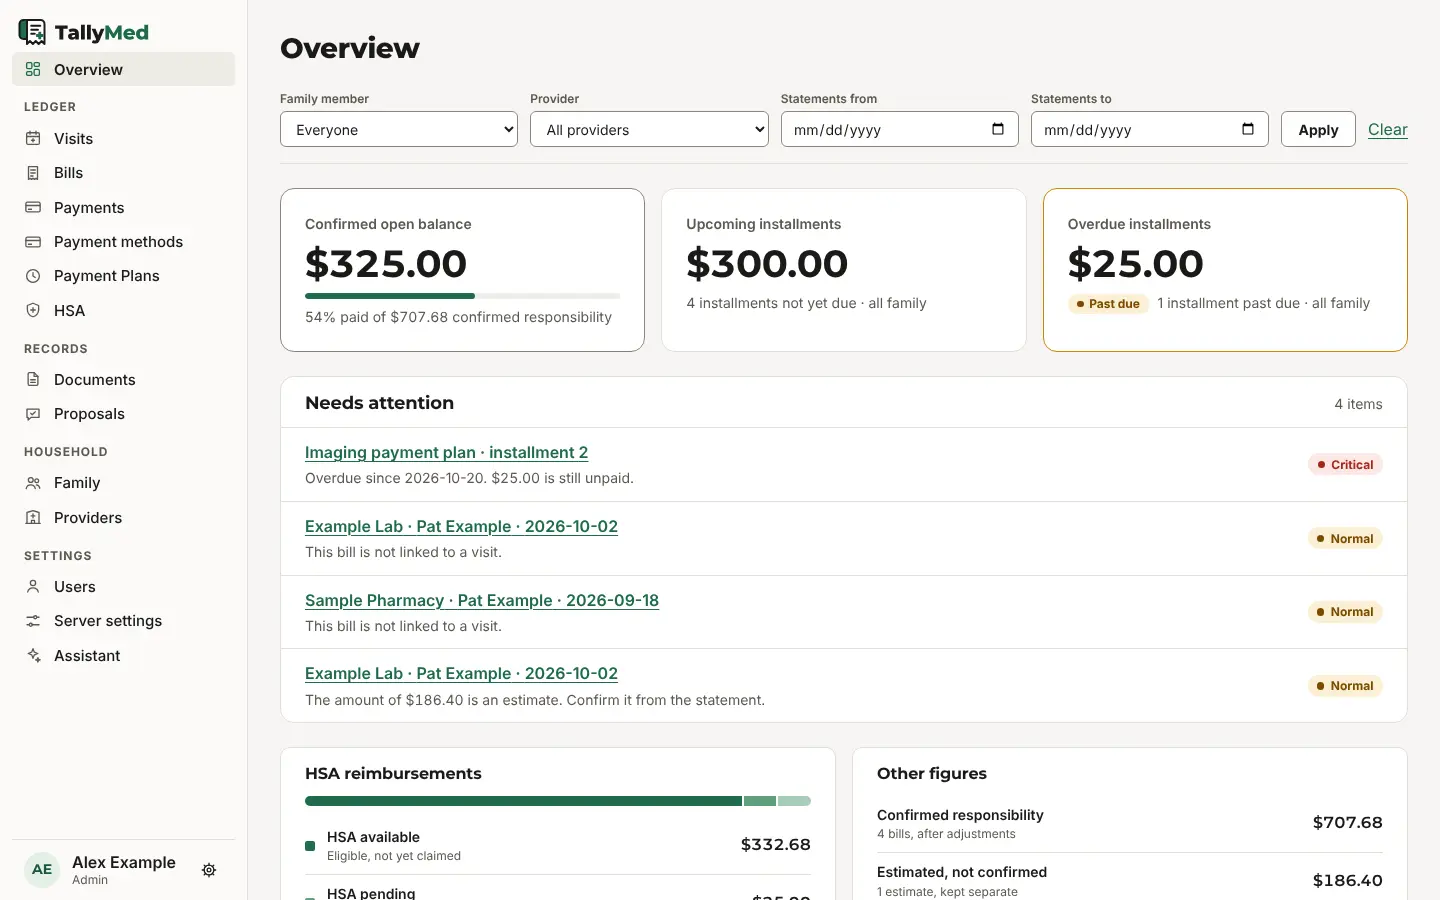
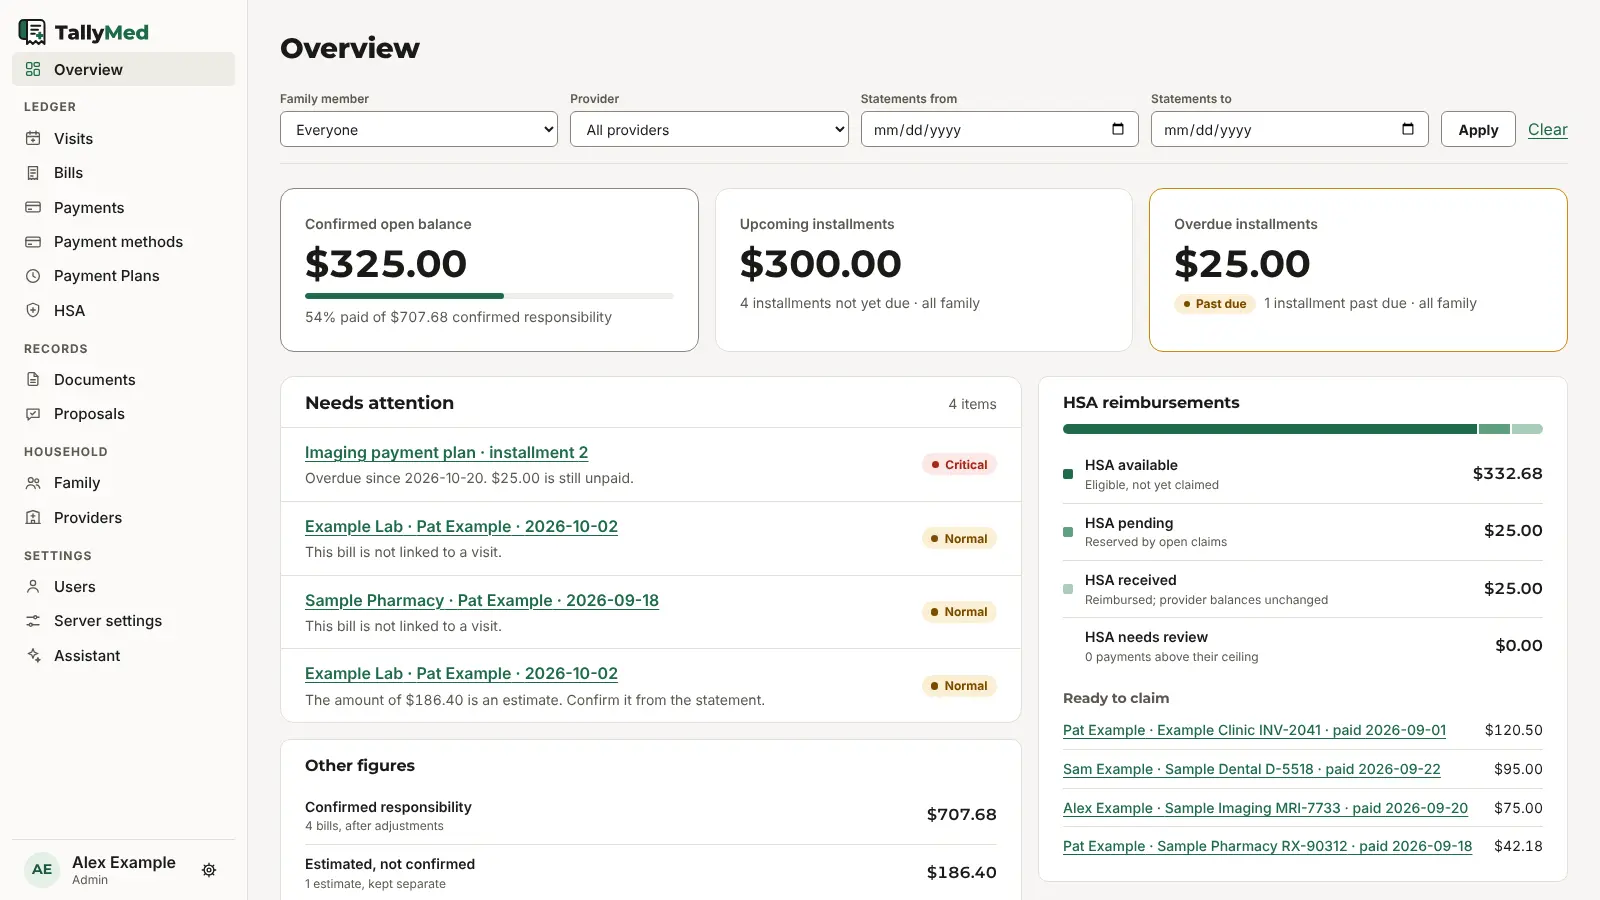
Design for 16:9 screens: wider pages, two-column overview, 16:9 screenshots and checks
From 1600px wide (1920x1080 and up) wide app pages widen to 96rem and the overview
places Needs attention and Other figures in a main column with the HSA card beside
them, so the summary fits on one screen. The marketing frame widens to 88rem.
Product screenshots are re-taken at 1600x900. The marketing browser check adds
1366x768 and 1920x1080; the app check asserts no sideways scroll at both and the
two-column layout at 1920x1080.

Claude-Session: https://claude.ai/code/session_01FMr4CgbvstSKq3XfQZ7Zma

diff --git a/apps/web/app/(app)/page.tsx b/apps/web/app/(app)/page.tsx
@@ -76,6 +76,7 @@ export default async function Overview({ searchParams }: { searchParams: SearchP
           <span className="key-note">{overdueNow && <span className="pill warn">Past due</span>} {plural(due.overdueCount, 'installment', 'installments')} past due · all family</span>
         </Link>
       </section>
+      <div className="overview-body">
       <NeedsAttention sources={{
         overdue: overdue.items, needsReview: hsaQueue.needsReview, unmatched,
         awaitingVisit: data!.awaitingVisit, estimates: data!.estimates, duplicates: data!.possibleDuplicates,
@@ -85,7 +86,7 @@ export default async function Overview({ searchParams }: { searchParams: SearchP
         estimates: filter({ status: 'estimate' }), duplicates: filter({ duplicates: 'yes' }),
       }} />
       <div className="secondary-grid">
-        <section className="card compact" aria-labelledby="sec-hsa">
+        <section className="card compact hsa-card" aria-labelledby="sec-hsa">
           <h2 id="sec-hsa">HSA reimbursements</h2>
           {hsaTotal > 0n
             ? <div className="stack-bar" aria-hidden="true">{hsaParts.map((part) => BigInt(part.cents) > 0n && <span key={part.key} className={`seg seg-${part.key}`} style={{ flexGrow: Number(BigInt(part.cents) * 1000n / hsaTotal) || 1 }} />)}</div>
@@ -99,7 +100,7 @@ export default async function Overview({ searchParams }: { searchParams: SearchP
             <ul className="rows small">{hsaQueue.available.map((a) => <li key={a.allocationId}><AllocationLink a={a} /> <Money cents={a.availableCents} /></li>)}</ul>
           </>}
         </section>
-        <section className="card compact" aria-labelledby="sec-more">
+        <section className="card compact more-card" aria-labelledby="sec-more">
           <h2 id="sec-more">Other figures</h2>
           <ul className="figure-list">
             <li><Link href={filter({ status: 'confirmed' })}><span className="fig-label">Confirmed responsibility</span><span className="fig-value"><Money cents={t.confirmedResponsibilityCents} /></span><span className="fig-note">{plural(t.confirmedCount, 'bill', 'bills')}, after adjustments</span></Link></li>
@@ -109,6 +110,7 @@ export default async function Overview({ searchParams }: { searchParams: SearchP
             <li><Link href={filter({ awaitingVisit: 'yes' })}><span className="fig-label">Bills awaiting a visit</span><span className="fig-value num">{t.awaitingVisitCount}</span><span className="fig-note">Not linked to a visit yet</span></Link></li>
           </ul>
         </section>
+      </div>
       </div>
     </>}
     <p className="muted footnote">Amounts are in USD. Installments and unapplied cash cover the whole family. HSA figures use payment dates, so the statement-date filters do not apply to them.</p>

diff --git a/apps/web/app/globals.css b/apps/web/app/globals.css
@@ -303,6 +303,16 @@ ul.rows li > a:first-child { flex: 1 1 12rem; font-weight: 500; }
 }
 
 .secondary-grid { display: grid; gap: var(--space-4); grid-template-columns: repeat(auto-fit, minmax(min(100%, 22rem), 1fr)); align-items: start; }
+/* Wide 16:9 screens (1600px and up, e.g. 1920x1080): wider pages, and the overview puts Needs attention and Other figures in a main
+   column with the HSA card beside them, so the summary fits on one screen. Without an attention list the secondary cards keep their two-column row. */
+@media (min-width: 100rem) {
+  main.wide, footer.notice, .undo-bar { max-width: 96rem; }
+  .overview-body:has(> .attention) { display: grid; grid-template-columns: minmax(0, 1.4fr) minmax(26rem, 1fr); grid-template-rows: auto 1fr; gap: var(--space-4); align-items: start; }
+  .overview-body:has(> .attention) > .attention { grid-column: 1; grid-row: 1; margin: 0; }
+  .overview-body:has(> .attention) > .secondary-grid { display: contents; }
+  .overview-body:has(> .attention) .more-card { grid-column: 1; grid-row: 2; }
+  .overview-body:has(> .attention) .hsa-card { grid-column: 2; grid-row: 1 / span 2; }
+}
 .card.compact { padding: var(--space-4) var(--space-5); margin: 0; }
 .card.compact h2 { font-size: var(--text-md); margin-bottom: var(--space-3); }
 .card.compact h3 { font-size: var(--text-sm); color: var(--fg-muted); margin: var(--space-4) 0 var(--space-1); }

diff --git a/apps/marketing/app/site.css b/apps/marketing/app/site.css
@@ -38,6 +38,8 @@ a:focus-visible, button:focus-visible, summary:focus-visible, [tabindex]:focus-v
 h1, h2, h3, h4 { font-family: var(--font-display); text-wrap: balance; }
 .sr-only { position: absolute; width: 1px; height: 1px; overflow: hidden; clip-path: inset(50%); white-space: nowrap; }
 .frame { width: min(100% - 2.5rem, 76rem); margin-inline: auto; }
+/* Wide 16:9 screens (1600px and up): a wider frame so the page does not sit in a narrow column on 1920x1080 or 2560x1440. */
+@media (min-width: 100rem) { .frame { width: min(100% - 5rem, 88rem); } }
 .skip { position: absolute; top: 1rem; left: 1rem; z-index: 10; padding: .5rem .75rem; border-radius: .375rem; background: var(--surface); color: var(--ink); transform: translateY(-300%); }
 .skip:focus { transform: none; }
 

diff --git a/apps/marketing/lib/screens.ts b/apps/marketing/lib/screens.ts
@@ -1,5 +1,5 @@
-/** Real screenshots of the application running on fabricated data (see scripts/capture-site-screenshots.mjs). All are 1440 x 900. */
-export const screenSize = { width: 1440, height: 900 } as const;
+/** Real screenshots of the application running on fabricated data (see scripts/capture-site-screenshots.mjs). All are 1600 x 900 (16:9, the most common desktop shape). */
+export const screenSize = { width: 1600, height: 900 } as const;
 
 export const screens = [
   {

diff --git a/docs/design-system.md b/docs/design-system.md
@@ -65,7 +65,7 @@ All are plain classes or small server components; pages stay server-rendered for
 | Page header | Optional `p.crumb` back link, `h1`, then a `p` of meta text and status pills |
 | Card | `.card`; a card with `role="note"` or `role="alert"` becomes an amber or red callout |
 | Metric | `.metrics > .card` with a label `span`, a `strong` value and optional `.muted` help. Add `warn` (amber) to a card that needs attention |
-| Overview | A compact filter row; three key figures (`.key-figure`: open balance with a share-paid bar, upcoming and overdue installments); Needs attention when anything needs action; then two smaller cards, HSA reimbursements (stacked bar with a text legend carrying every amount) and Other figures. See `app/(app)/page.tsx` |
+| Overview | A compact filter row; three key figures (`.key-figure`: open balance with a share-paid bar, upcoming and overdue installments); Needs attention when anything needs action; then two smaller cards, HSA reimbursements (stacked bar with a text legend carrying every amount) and Other figures. From 1600px wide (1920x1080 and other 16:9 screens) wide pages widen to 96rem and the overview becomes two columns: Needs attention and Other figures, with the HSA card beside them. See `app/(app)/page.tsx` |
 | Needs attention | `NeedsAttention` renders only when something needs action: one row per item with the item (a link), the reason, and an importance pill whose text is Critical, Normal or Low. Critical: overdue installments, HSA payments needing review. Normal: unmatched documents, bills awaiting a visit, estimates to confirm. Low: possible duplicates (a hint) |
 | Button | `button` or `a.button` is primary; add `secondary` for outline. Destructive or corrective actions use secondary |
 | Form | `label` then control. `.row` lays filters out in a line. Checkbox labels wrap their input |
@@ -83,4 +83,4 @@ All are plain classes or small server components; pages stay server-rendered for
 
 ## Checks
 
-`npm run test:app-browser` drives the whole app in Chromium with axe on each screen and a phone-width overflow check. Set `TALLYMED_COLOR_SCHEME=dark` to run it in the dark theme (CI runs both) and `TALLYMED_SCREENSHOT_DIR=<folder>` to save a screenshot at each checkpoint. `npm run test:browser` and `npm run test:performance` cover the public site in both themes.
+`npm run test:app-browser` drives the whole app in Chromium with axe on each screen and a phone-width overflow check. Set `TALLYMED_COLOR_SCHEME=dark` to run it in the dark theme (CI runs both) and `TALLYMED_SCREENSHOT_DIR=<folder>` to save a screenshot at each checkpoint. It also checks the overview at the 16:9 sizes 1366x768 and 1920x1080 (no sideways scroll; two columns at 1920). `npm run test:browser` and `npm run test:performance` cover the public site in both themes, including 1366x768 and 1920x1080. Site screenshots are 1600x900 (16:9).

diff --git a/.project/DECISIONS.md b/.project/DECISIONS.md
@@ -205,6 +205,7 @@ The owner found the overview cluttered and the blue palette with the turquoise s
 - **Sidebar.** A paper panel with a hairline border in light theme and charcoal in dark, so the logo follows the theme. The active item is a soft fill with a bold label and accent icon; there is no coloured edge.
 - **Overview.** Primary figures are confirmed open balance (with a share-paid bar), upcoming installments and overdue installments. Secondary figures (responsibility, estimates, unapplied cash, credits, bills awaiting a visit, HSA amounts) are smaller, in two cards below Needs attention, each still linking to its filtered list. One minimal chart: the HSA available, pending and received split, with amounts in a text legend. Charts use only figures the existing services return; numbers are converted to floating point only for drawing, never for displayed amounts. No query, service, route or money rule changed.
 - **Needs attention.** One list replaces the seven always-visible queue cards and is not rendered when empty. Each row has the item, the reason and an importance level written as text. Presentation-only mapping, a starter choice the owner can change: Critical for overdue installments and HSA payments that need review; Normal for unmatched documents, bills awaiting a visit and estimates to confirm; Low for possible duplicates (a hint; TallyMed never merges bills). Available HSA reimbursements are an opportunity, not an action, and moved beside the HSA chart.
+- **16:9 screens.** The owner expects 16:9 displays to be most common. From 1600px wide, wide app pages widen from 76rem to 96rem and the overview uses two columns (Needs attention and Other figures, with the HSA card beside them), so the summary fits on a 1920x1080 screen; at 1366x768 and 1280x720 it stacks in one column with the key figures and Needs attention on the first screen. The public site's frame widens to 88rem from 1600px. Product screenshots are 1600x900. The browser checks cover 1366x768 and 1920x1080.
 - **Public site.** Same tokens and logo; the navy hero band becomes a light band (charcoal in dark). Copy, roadmap data and metadata are unchanged. Product screenshots and the Open Graph image are regenerated from the redesigned app on fabricated data. The live site changes only with the next `dev` to `main` release merge.
 
 ## Password change and administrator reset decisions (owner request, 2026-11-14, phase 1)

diff --git a/apps/marketing/public/screens/README.md b/apps/marketing/public/screens/README.md
@@ -1,6 +1,6 @@
 # Site screenshots
 
-Real screenshots of the TallyMed web app on fabricated household data (invented names, providers and amounts), 1440 x 900, light and dark.
+Real screenshots of the TallyMed web app on fabricated household data (invented names, providers and amounts), 1600 x 900 (16:9), light and dark.
 
 Regenerate with a disposable PostgreSQL server and a built web app:
 
